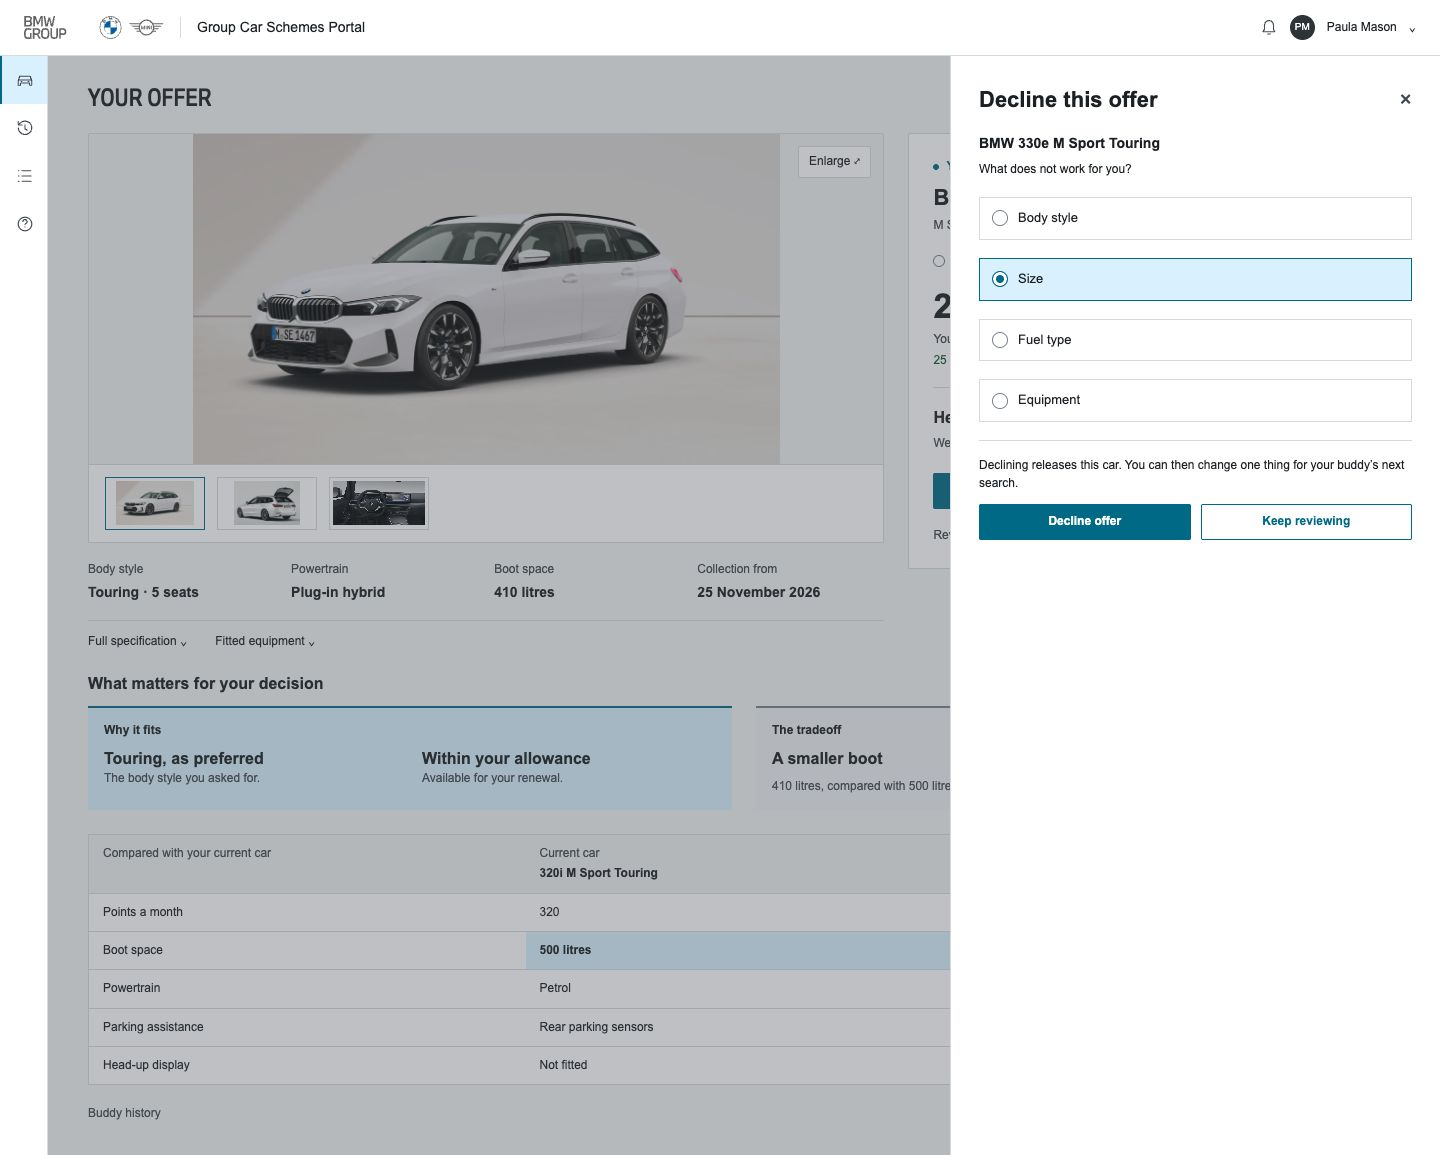
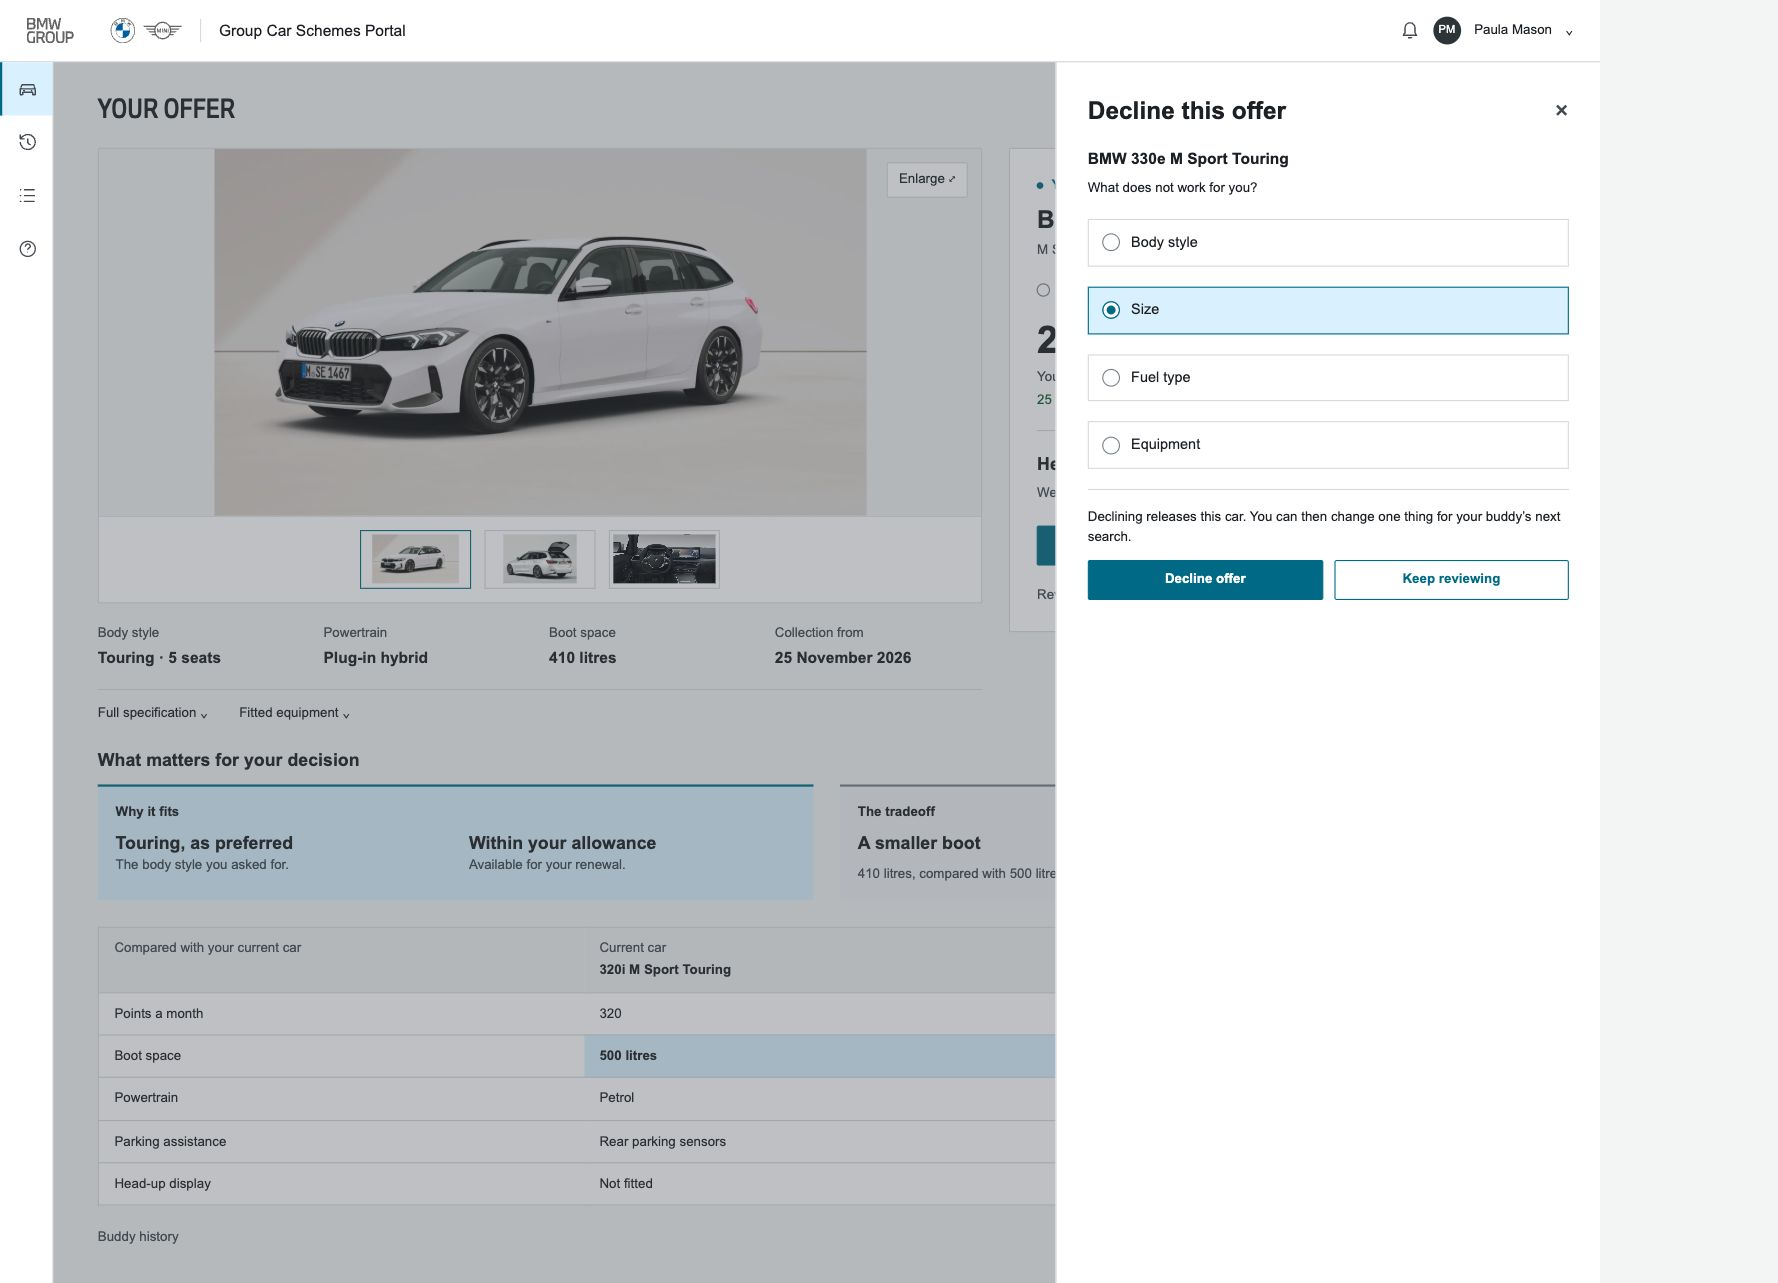
docs: centre focused offer gallery thumbnails [skip ci]
Centre the image-only picker beneath the main car image. Quick desktop visual review completed.

diff --git a/docs/gcsp/mockups/your-offer-desktop-2026-11-11/mockup.css b/docs/gcsp/mockups/your-offer-desktop-2026-11-11/mockup.css
@@ -8,3 +8,5 @@
 .car-led .car-header{display:flex;align-items:flex-end;justify-content:space-between;margin-bottom:16px}.car-led .car-header h2{font-size:24px}.car-led .gallery .photo>img{height:345px}.car-led .thumbs{padding:10px 18px}.car-led .hero{display:block}.car-led .car-stage{display:grid;grid-template-columns:minmax(0,2.1fr) minmax(300px,1fr);gap:24px}.car-led .side-facts{display:flex;flex-direction:column;gap:18px;padding:20px;background:white;border:1px solid var(--line)}.car-led .detail-strip{grid-template-columns:1fr 1fr;padding:0;gap:20px}.car-led .side-facts .why{display:flex;flex-direction:column;gap:12px}.car-led .decision-bar{margin-top:20px;background:white;border:1px solid var(--line);padding:18px 24px;display:grid;grid-template-columns:1fr 1.2fr 1.4fr;gap:30px;align-items:center}.car-led .decision-bar .deadline{border:0;padding:0}.car-led .decision-bar .cost strong{font-size:28px}.car-led .decision-bar .actions{margin-bottom:7px}.car-led .compare th,.car-led .compare td{padding:9px 14px}
 /* Fixed painted review states; none of these controls submit anything. */
 .state-page main{margin:0;position:relative}.state-shade{position:absolute;inset:0;background:rgba(78,84,93,.35)}.drawer{position:absolute;right:0;top:0;width:490px;min-height:100%;background:white;border-left:1px solid var(--line);padding:28px;display:flex;flex-direction:column;gap:18px}.drawer h2{font-size:22px}.drawer-head{display:flex;justify-content:space-between;align-items:center}.drawer-close{font-size:22px;color:var(--muted)}.drawer section{border-top:1px solid var(--line);padding-top:16px}.drawer h3{font-size:14px;margin-bottom:8px}.drawer p{font-size:12px}.drawer .pair{display:flex;justify-content:space-between;gap:14px;margin:5px 0;font-size:12px}.drawer .field{border:1px solid #858d98;padding:9px 10px;margin-top:6px;background:white;font-size:13px;color:var(--muted)}.drawer .checks{display:flex;flex-direction:column;gap:10px}.drawer .checks p{display:flex;gap:9px}.box{width:15px;height:15px;border:1px solid #858d98;flex:none;margin-top:1px}.disabled{background:#e9eaeb!important;color:#777!important;border-color:#e9eaeb!important}.drawer-footer{border-top:1px solid var(--line);padding-top:16px;display:flex;flex-direction:column;gap:12px}.radio-row{padding:11px 12px;border:1px solid var(--line);font-size:13px;display:flex;align-items:center;gap:10px}.radio-row:before{content:'';height:14px;width:14px;border:1px solid #858d98;border-radius:50%;background:white}.radio-row.selected{border-color:var(--teal);background:var(--soft)}.radio-row.selected:before{box-shadow:inset 0 0 0 3px white;background:var(--teal);border-color:var(--teal)}.outcome{display:grid;grid-template-columns:1.5fr 1fr;gap:40px;align-items:center;padding:36px;background:white;border:1px solid var(--line);margin-top:30px}.outcome>img{width:100%;height:330px;object-fit:contain}.outcome-copy{display:flex;flex-direction:column;gap:18px}.status-label{color:var(--green);font-size:12px;font-weight:600}.status-label.expired{color:var(--muted)}.outcome-copy h2{font-size:24px}.outcome-copy .actions{align-self:flex-start}.return-link{font-size:12px}
+
+.focused .thumbs { justify-content: center; }

diff --git a/docs/gcsp/mockups/your-offer-desktop-2026-11-11/README.md b/docs/gcsp/mockups/your-offer-desktop-2026-11-11/README.md
@@ -11,3 +11,5 @@ The car facts, points, finishes, equipment, return record and approval stage are
 Quick rendered review only, at 1440 × 1040: inspected all three alternatives, acceptance and decline review, accepted and expired. Adjacent JPGs retain the views. The acceptance state preserves all three declarations and missing expected mileage; its final action is disabled. The outcomes distinguish selection from approval and give expired offers no decision actions. Links/assets were checked locally. No functional/browser suite, phone/tablet validation, real decisions, data wiring, Jira writes, subagents, merges or deployments. Application code is unchanged. This is a design proposal awaiting refinement, not approved implementation scope.
 
 Gary chose Focused decision for refinement on 11 November. First refinement: remove the thumbnail captions and view-count text from the focused gallery picker, retaining descriptive image alternatives. Applied to the focused screen and its two review overlays; the other concept alternatives are retained for comparison.
+
+Second refinement: centre the image-only thumbnail strip beneath the main image in Focused decision and its review overlays. Quick desktop visual check; no behaviour added.
